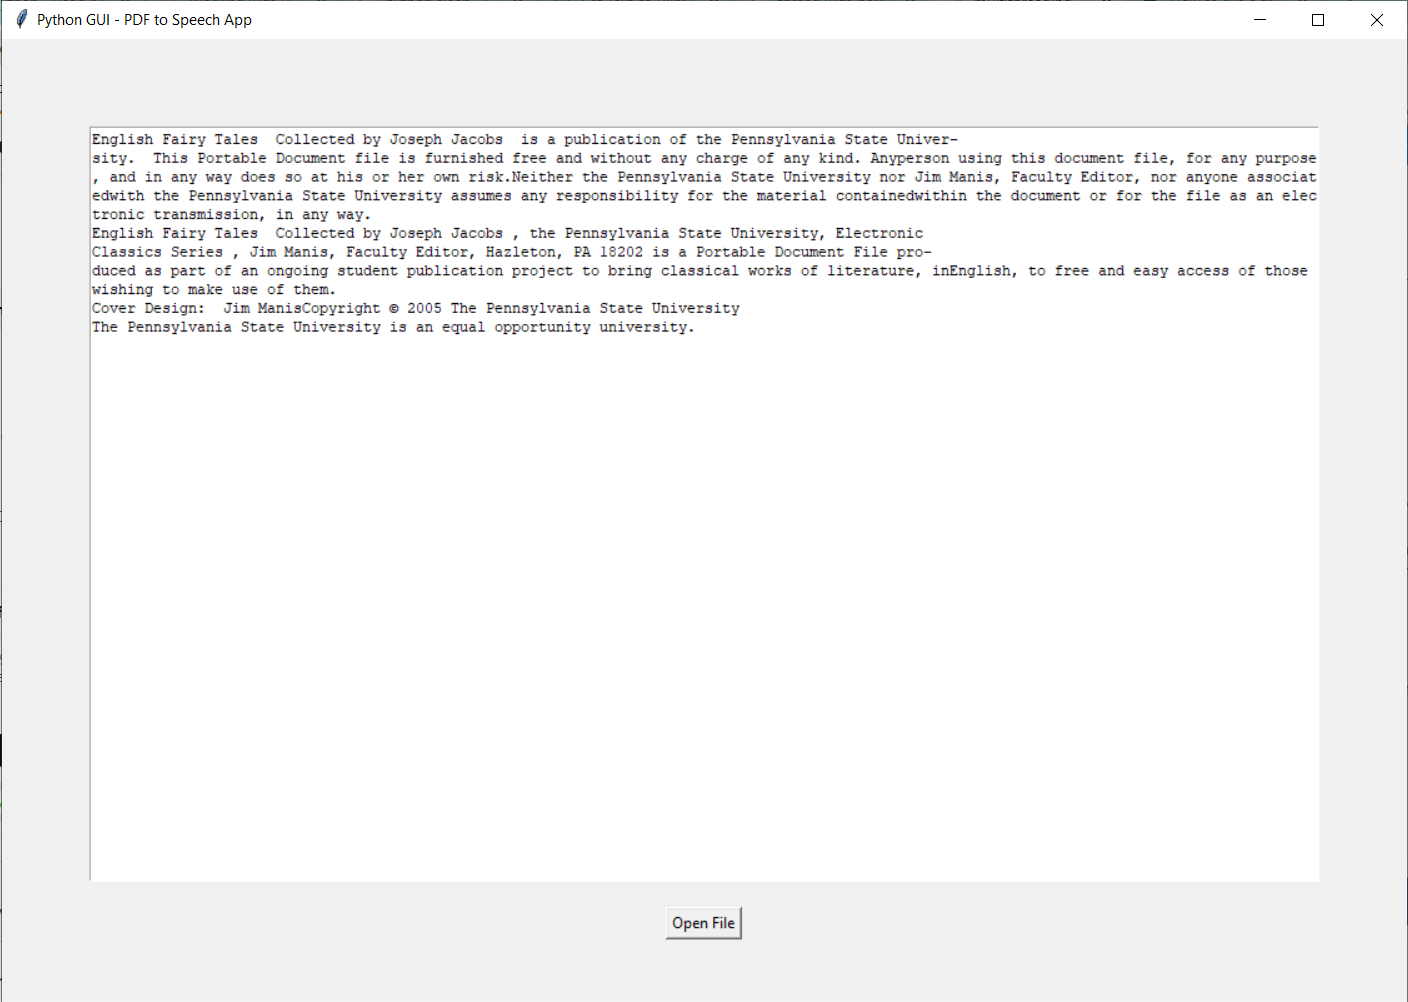
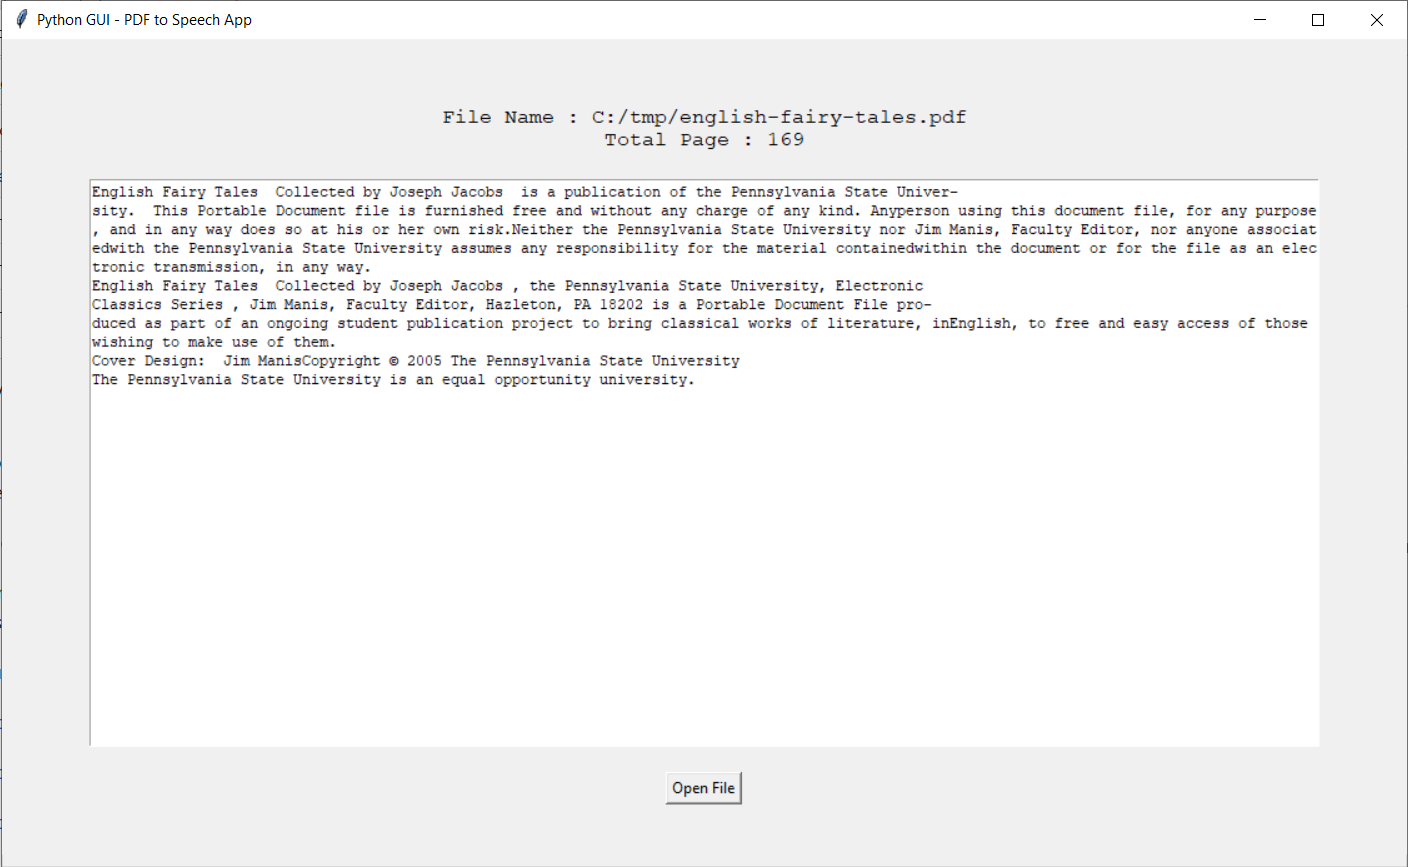
update

diff --git a/main_read_pdf.py b/main_read_pdf.py
@@ -21,10 +21,12 @@ def select_file():
     thread_init.start()
 
 
+labelStatus = tkinter.Label(font=("Courier", 12))
 frameInput = tkinter.Frame(borderwidth=20)
-inputText = tkinter.Text(frameInput, width=140, height=40, font=("Courier", 9))
+inputText = tkinter.Text(frameInput, width=140, height=30, font=("Courier", 9))
 open_button = tkinter.Button(text="Open File", command=select_file)
 
+labelStatus.pack()
 frameInput.pack()
 inputText.pack()
 open_button.pack()
@@ -33,8 +35,10 @@ def readPDF(filename):
     with open(filename, "rb") as filehandle:
         pdf = PdfFileReader(filehandle)
         info = pdf.getDocumentInfo()
-        print(info)
         pages = pdf.getNumPages()
+        print(info)
+
+        labelStatus.config(text=f"File Name : {filename}\nTotal Page : {pages}")
 
         for page in range(pages):
             print(f"Read Page {page}")
